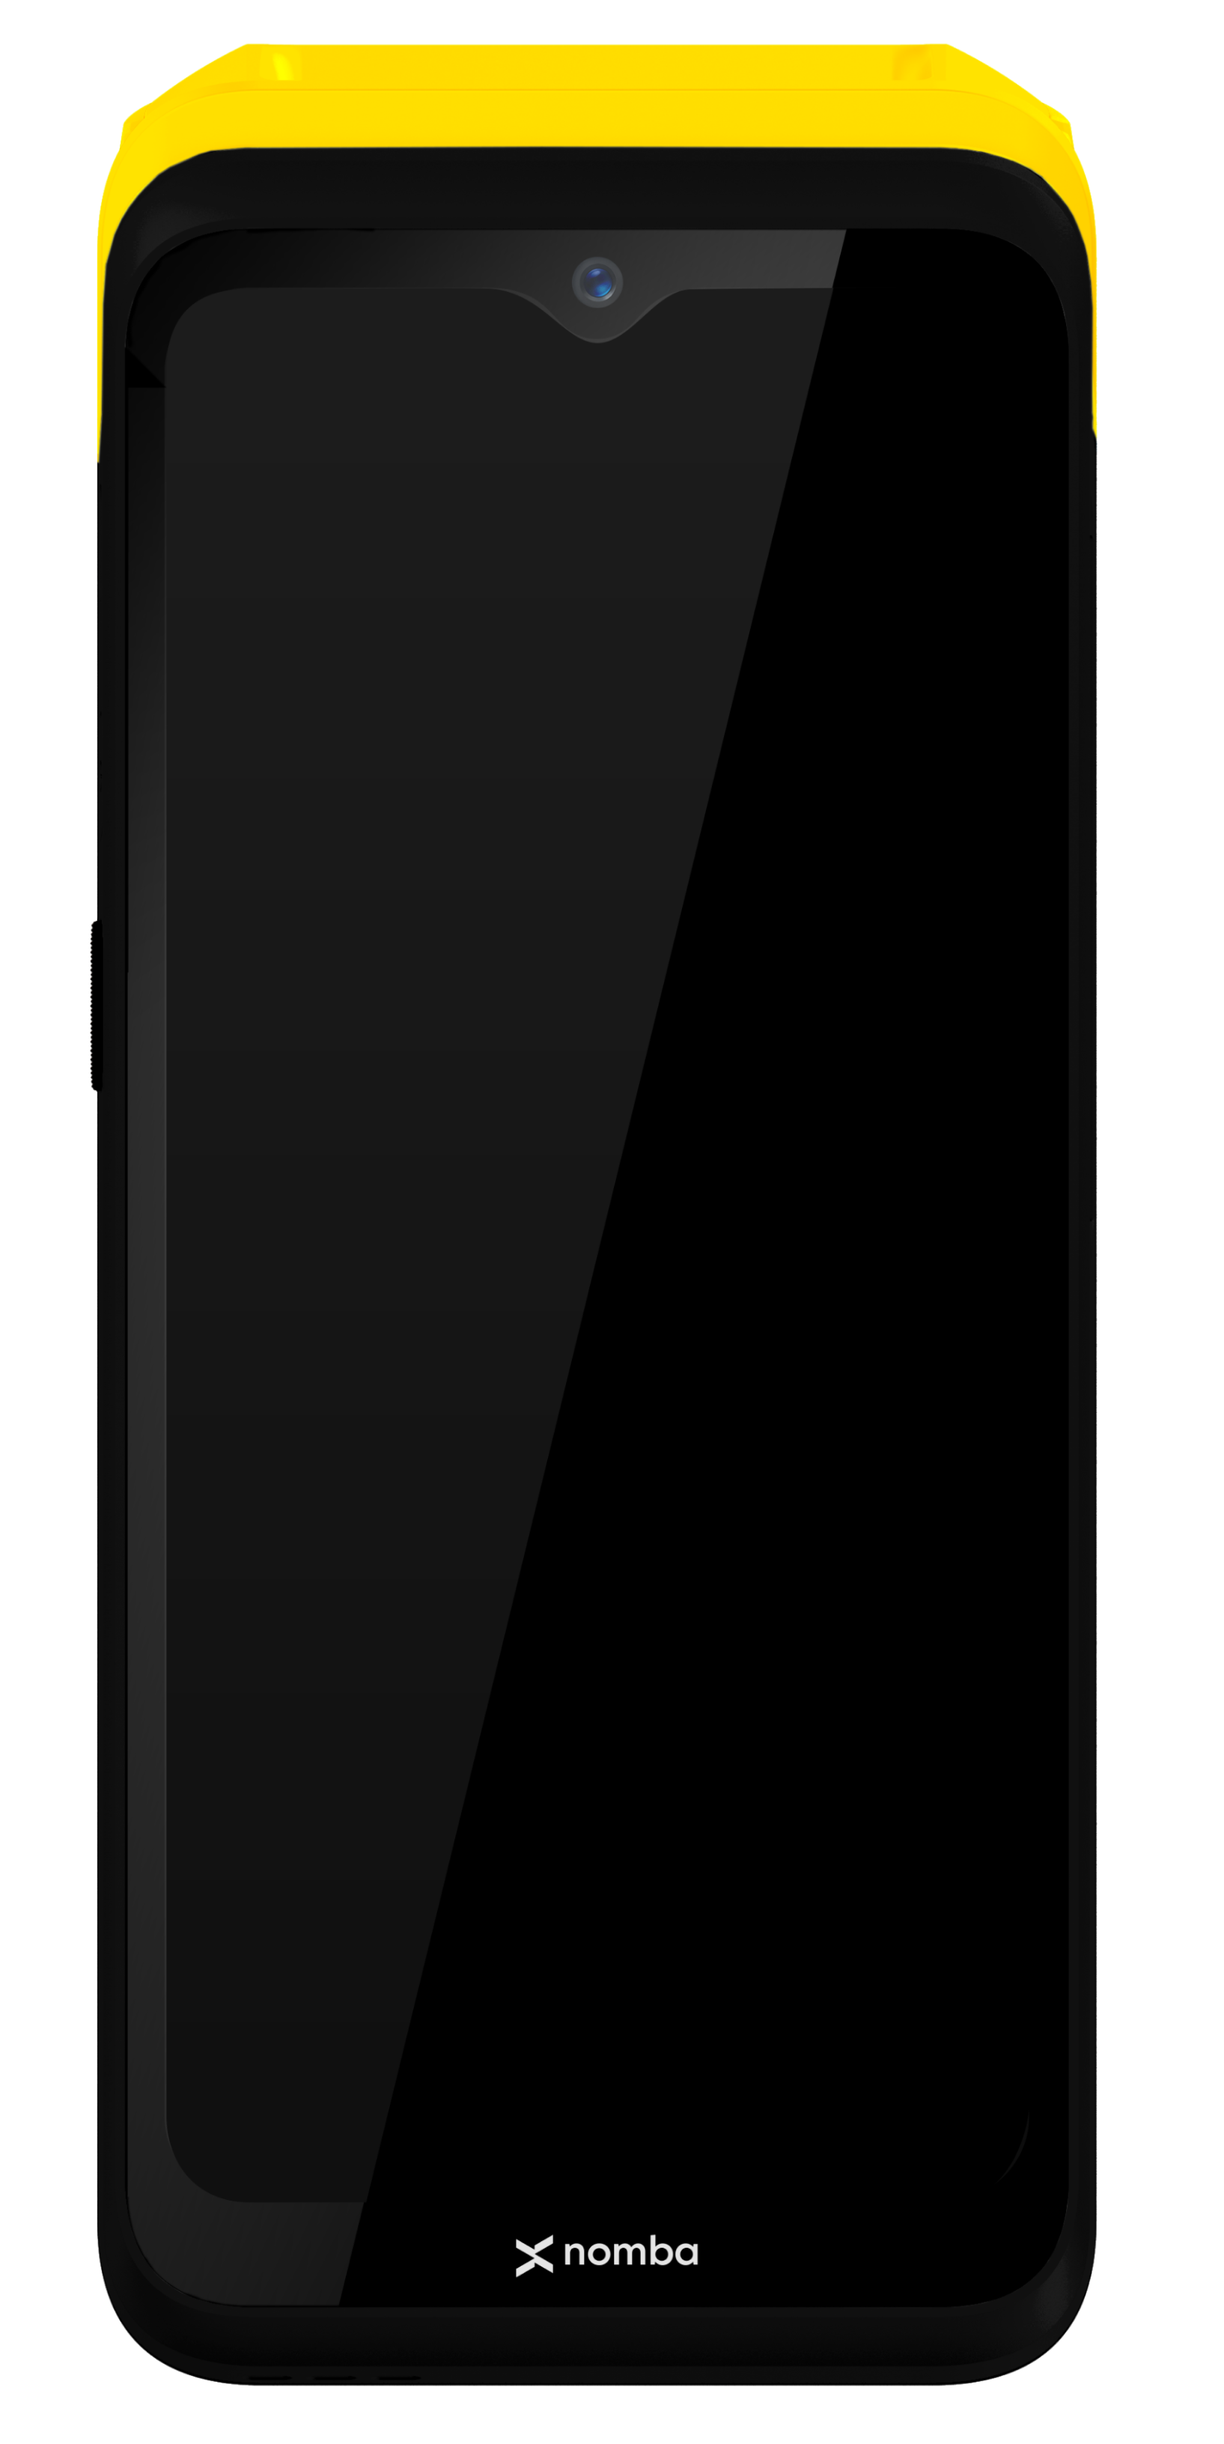
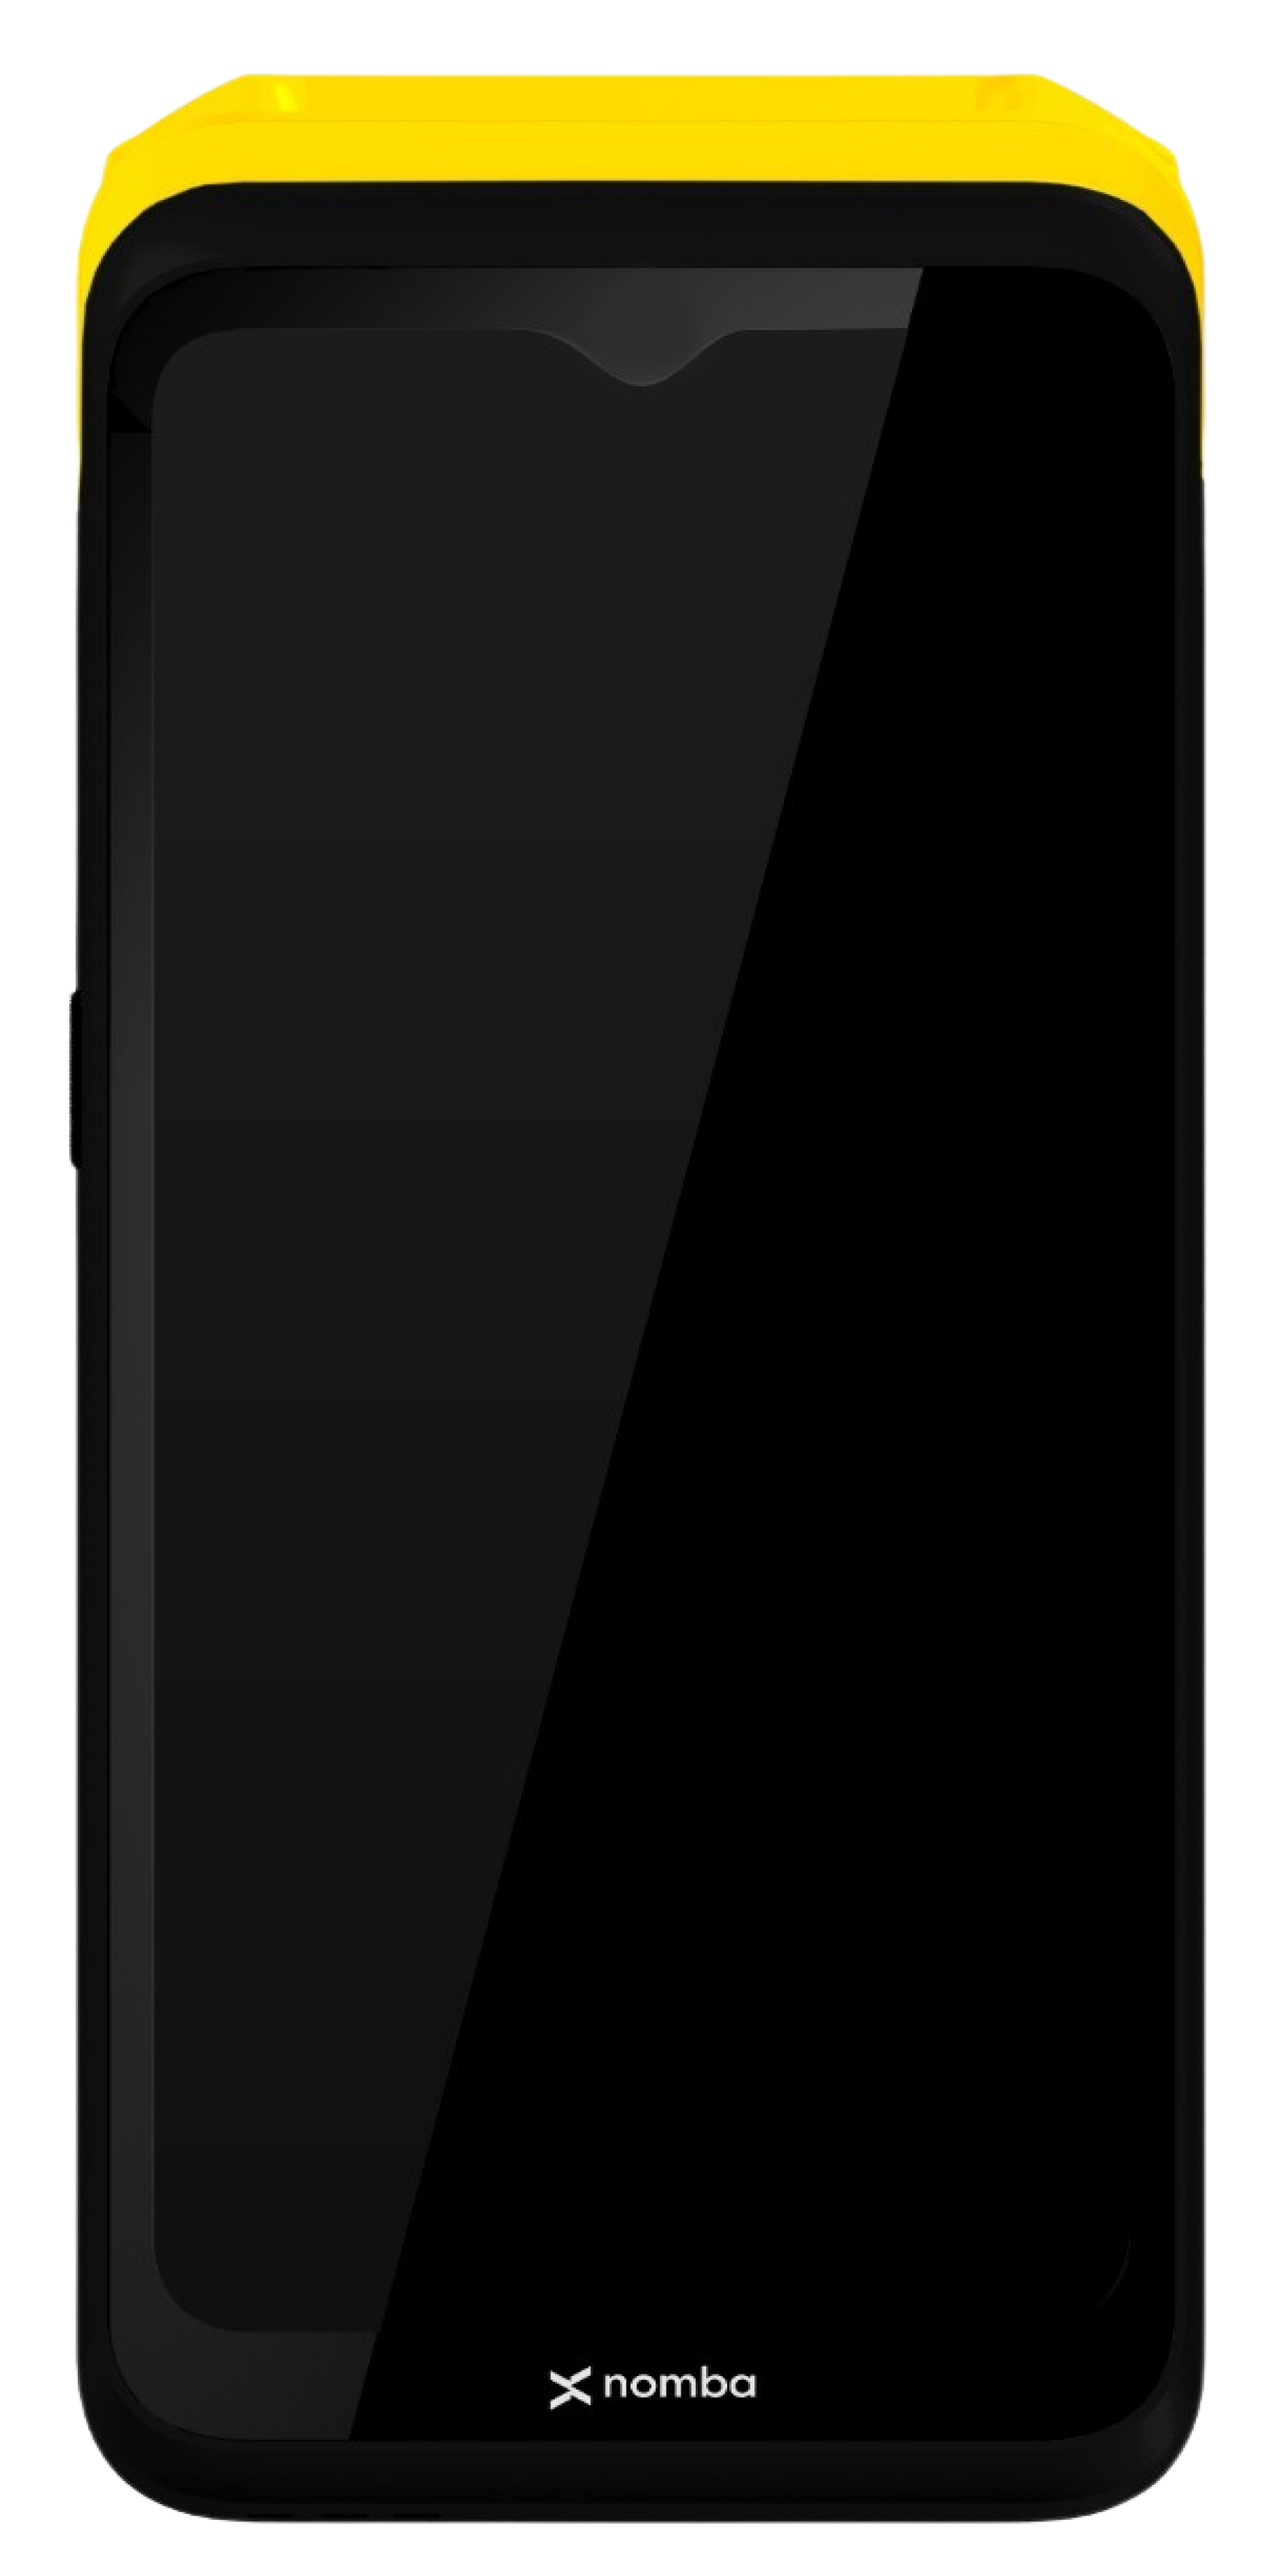
assets(terminal): changed terminal image

Changed region(s): [[0.0312, 0.0, 0.967, 1.0], [0.4055, 0.9062, 0.5927, 0.9375]]

diff --git a/src/templates/products/pos-terminals/best-way-to-accept-payments/best-way-to-accept-payments.jsx b/src/templates/products/pos-terminals/best-way-to-accept-payments/best-way-to-accept-payments.jsx
@@ -28,15 +28,15 @@ const BestWayToAcceptPayments = () => {
       <SectionBrandElement />
       <Container>
         <div className={bestWayWrapperStles}>
-          <div>
+          <div className="max-w-[670px]">
             <Ntext variant="h2" color="primary-100">
               The Best Way to Accept <Br on="desktop" /> Offline and Online Payments
             </Ntext>
             <Ntext variant="p18" color="primary-100" className="mt-4">
-              Experience how you receive payments with the new Nomba Pro POS terminal
+              Experience how you receive payments with the new <Br on="desktop" /> Nomba MAX POS terminal
             </Ntext>
             <Ntext variant="p18" color="secondary" className="mt-8">
-              With the Nomba Pro POS Terminal, you can:
+              With the Nomba MAX Terminal, you can:
             </Ntext>
 
             <ul className={listWrapperStyles}>
@@ -51,8 +51,8 @@ const BestWayToAcceptPayments = () => {
           </div>
           <div className={imageWrapperStyles}>
             <StaticImage
-              width={450}
-              height={860}
+              width={421}
+              height={875}
               src="../../../../assets/images/jpegs/Nomba-Max-Front.png"
               alt="Nomba Pro Front"
             />

diff --git a/src/templates/products/pos-terminals/terminal-next-level/terminal-next-level.jsx b/src/templates/products/pos-terminals/terminal-next-level/terminal-next-level.jsx
@@ -20,9 +20,7 @@ const TerminalNextLevel = () => {
               height={511}
               src="../../../../assets/images/jpegs/A chance to move your business to the next level.jpg"
               alt="A chance to move your business to the next level"
-              style={{
-                clipPath: "polygon(100% 0, 100% 76%, 74% 100%, 0 100%, 0 0)",
-              }}
+              className="rounded-lg"
             />
           </div>
           <div className={textWrapperStyle}>
@@ -48,11 +46,7 @@ const TerminalNextLevel = () => {
                 </Ntext>
               </li>
             </ul>
-            <ReadMore
-              color="primary"
-              text="Create an account"
-              href={{ url: SIGNUP_URL }}
-            />
+            <ReadMore color="primary" text="Create an account" href={{ url: SIGNUP_URL }} />
           </div>
         </div>
       </Container>
